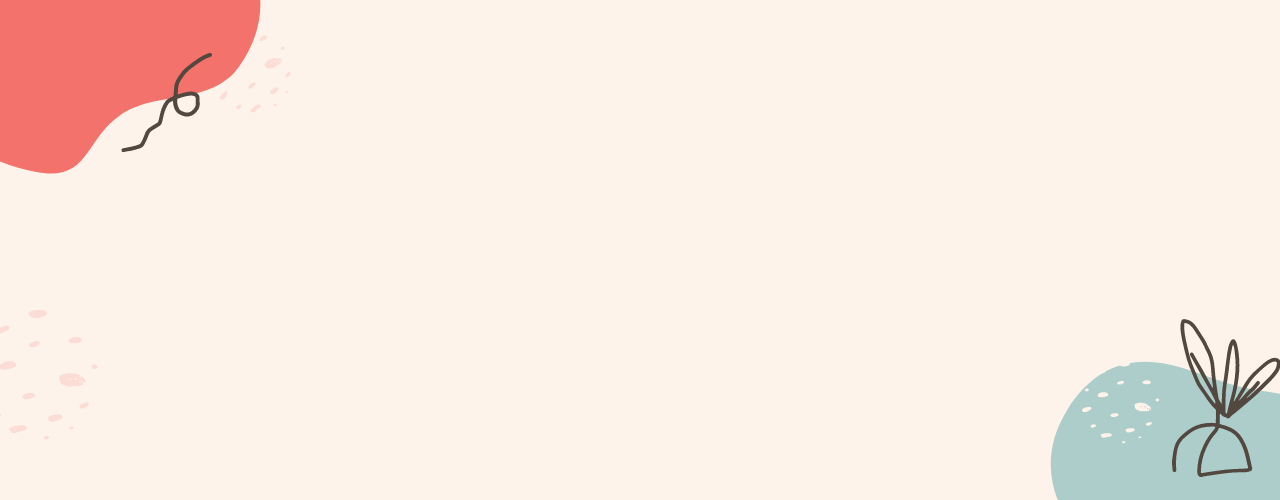
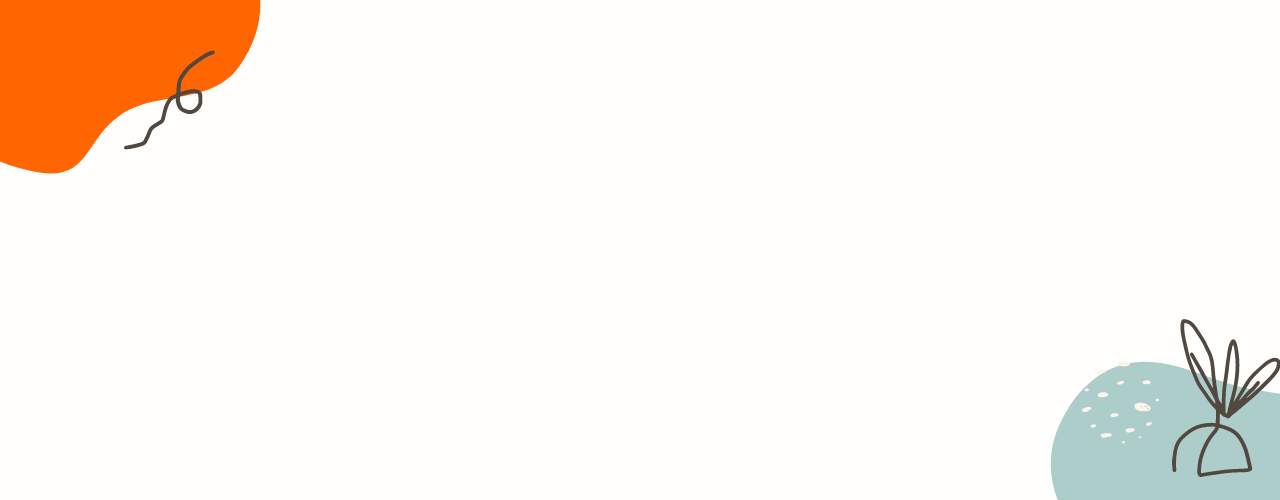
Updates

diff --git a/client/src/assets/LandingPage/LandingPage.jsx b/client/src/assets/LandingPage/LandingPage.jsx
@@ -79,7 +79,7 @@ const AccordionDetails = styled(MuiAccordionDetails)(({ theme }) => ({
   padding: theme.spacing(2),
   borderTop: "1px solid rgba(0, 0, 0, .125)",
 }));
-
+import img from "../../../public/BackgroundImage.png";
 export const LandingPage = () => {
   const { user } = useAuth();
   const theme = useTheme();
@@ -106,7 +106,10 @@ export const LandingPage = () => {
 
   return (
     <div>
-      <div className="flex flex-col items-start justify-end w-full pl-10 mb-16 mt-28 h-96 max-md:h-64 bg-inherit">
+      <div
+        style={{ height: "500px" }}
+        className="flex flex-col items-start justify-end w-full pl-10 mb-16 max-md:h-64 bg-[url('../../../public/BackgroundImage.png')] bg-no-repeat bg-cover pb-10"
+      >
         <div className="w-4/6 mb-8">
           <h1 className="text-4xl max-md:text-xl">
             "Welcome to a world where words dance off the page and ideas ignite
